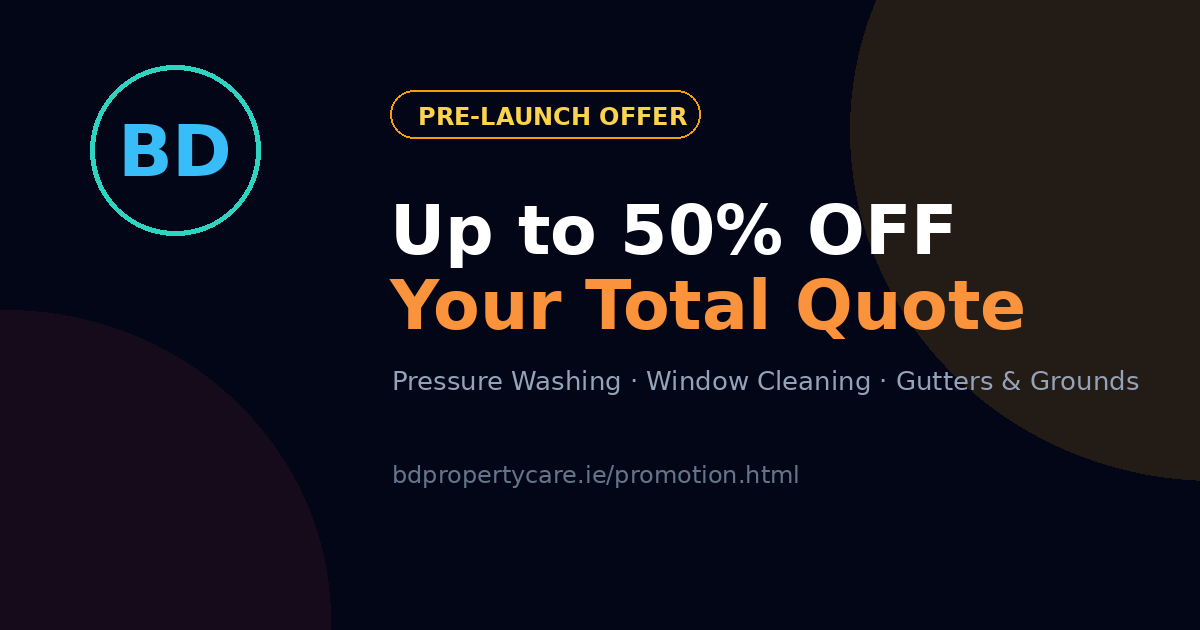
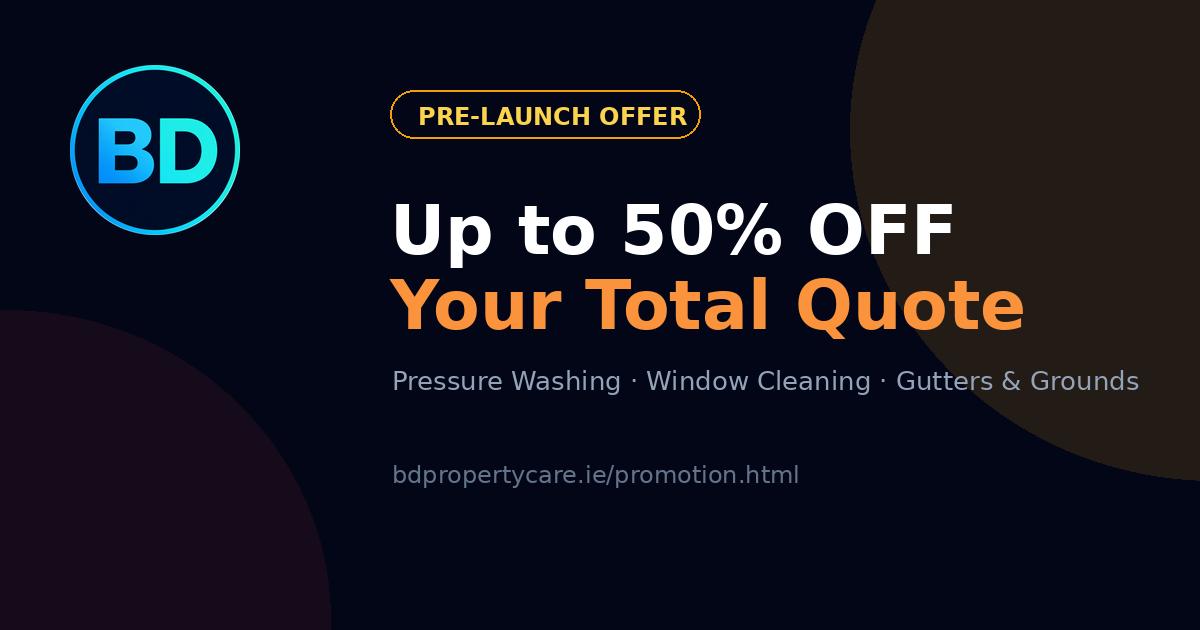
Add files via upload

Changed region(s): [[0.0308, 0.0905, 0.2158, 0.3921]]

diff --git a/book.html b/book.html
@@ -37,9 +37,7 @@
     <nav class="bg-slate-950/90 backdrop-blur-xl sticky top-0 z-40 border-b border-slate-800/80">
         <div class="max-w-5xl mx-auto px-6 flex justify-between items-center h-20">
             <a href="index.html" class="flex items-center gap-3">
-                <div class="w-11 h-11 rounded-full border-2 border-teal-400 flex items-center justify-center bg-slate-900/50">
-                    <span class="bg-gradient-to-r from-sky-400 to-teal-400 bg-clip-text text-transparent font-black text-lg">BD</span>
-                </div>
+                <img src="bd-logo.png" alt="BD Premium Property Care logo" class="w-11 h-11 rounded-full" width="44" height="44">
                 <div class="h-6 w-[1px] bg-slate-800"></div>
                 <span class="text-[11px] tracking-widest text-slate-400 font-black uppercase">Premium Property Care</span>
             </a>

diff --git a/grounds-repairs.html b/grounds-repairs.html
@@ -78,9 +78,7 @@
     <nav class="bg-slate-950/90 backdrop-blur-xl sticky top-0 z-40 border-b border-slate-800/80">
         <div class="max-w-5xl mx-auto px-6 flex justify-between items-center h-20">
             <a href="index.html" class="flex items-center gap-3">
-                <div class="w-11 h-11 rounded-full border-2 border-teal-400 flex items-center justify-center bg-slate-900/50">
-                    <span class="bg-gradient-to-r from-sky-400 to-teal-400 bg-clip-text text-transparent font-black text-lg">BD</span>
-                </div>
+                <img src="bd-logo.png" alt="BD Premium Property Care logo" class="w-11 h-11 rounded-full" width="44" height="44">
                 <div class="h-6 w-[1px] bg-slate-800"></div>
                 <span class="text-[11px] tracking-widest text-slate-400 font-black uppercase">Premium Property Care</span>
             </a>

diff --git a/promotion.html b/promotion.html
@@ -41,9 +41,7 @@
     <nav class="bg-slate-950/90 backdrop-blur-xl sticky top-0 z-40 border-b border-slate-800/80">
         <div class="max-w-6xl mx-auto px-6 flex justify-between items-center h-20">
             <a href="index.html" class="flex items-center gap-3">
-                <div class="w-11 h-11 rounded-full border-2 border-teal-400 flex items-center justify-center bg-slate-900/50">
-                    <span class="bg-gradient-to-r from-sky-400 to-teal-400 bg-clip-text text-transparent font-black text-lg">BD</span>
-                </div>
+                <img src="bd-logo.png" alt="BD Premium Property Care logo" class="w-11 h-11 rounded-full" width="44" height="44">
                 <div class="h-6 w-[1px] bg-slate-800"></div>
                 <span class="text-[11px] tracking-widest text-slate-400 font-black uppercase">Premium Property Care</span>
             </a>

diff --git a/referral.html b/referral.html
@@ -49,9 +49,7 @@
     <nav class="bg-slate-950/90 backdrop-blur-xl sticky top-0 z-40 border-b border-slate-800/80">
         <div class="max-w-5xl mx-auto px-6 flex justify-between items-center h-20">
             <a href="index.html" class="flex items-center gap-3">
-                <div class="w-11 h-11 rounded-full border-2 border-teal-400 flex items-center justify-center bg-slate-900/50">
-                    <span class="bg-gradient-to-r from-sky-400 to-teal-400 bg-clip-text text-transparent font-black text-lg">BD</span>
-                </div>
+                <img src="bd-logo.png" alt="BD Premium Property Care logo" class="w-11 h-11 rounded-full" width="44" height="44">
                 <div class="h-6 w-[1px] bg-slate-800"></div>
                 <span class="text-[11px] tracking-widest text-slate-400 font-black uppercase">Premium Property Care</span>
             </a>

diff --git a/washing-gutters.html b/washing-gutters.html
@@ -78,9 +78,7 @@
     <nav class="bg-slate-950/90 backdrop-blur-xl sticky top-0 z-40 border-b border-slate-800/80">
         <div class="max-w-5xl mx-auto px-6 flex justify-between items-center h-20">
             <a href="index.html" class="flex items-center gap-3">
-                <div class="w-11 h-11 rounded-full border-2 border-teal-400 flex items-center justify-center bg-slate-900/50">
-                    <span class="bg-gradient-to-r from-sky-400 to-teal-400 bg-clip-text text-transparent font-black text-lg">BD</span>
-                </div>
+                <img src="bd-logo.png" alt="BD Premium Property Care logo" class="w-11 h-11 rounded-full" width="44" height="44">
                 <div class="h-6 w-[1px] bg-slate-800"></div>
                 <span class="text-[11px] tracking-widest text-slate-400 font-black uppercase">Premium Property Care</span>
             </a>

diff --git a/windows.html b/windows.html
@@ -78,9 +78,7 @@
     <nav class="bg-slate-950/90 backdrop-blur-xl sticky top-0 z-40 border-b border-slate-800/80">
         <div class="max-w-5xl mx-auto px-6 flex justify-between items-center h-20">
             <a href="index.html" class="flex items-center gap-3">
-                <div class="w-11 h-11 rounded-full border-2 border-teal-400 flex items-center justify-center bg-slate-900/50">
-                    <span class="bg-gradient-to-r from-sky-400 to-teal-400 bg-clip-text text-transparent font-black text-lg">BD</span>
-                </div>
+                <img src="bd-logo.png" alt="BD Premium Property Care logo" class="w-11 h-11 rounded-full" width="44" height="44">
                 <div class="h-6 w-[1px] bg-slate-800"></div>
                 <span class="text-[11px] tracking-widest text-slate-400 font-black uppercase">Premium Property Care</span>
             </a>

diff --git a/index.html b/index.html
@@ -133,9 +133,7 @@
             <div class="flex justify-between h-20">
                 <div class="flex items-center">
                     <a href="index.html" class="flex items-center gap-3">
-                        <div class="w-11 h-11 rounded-full border-2 border-teal-400 flex items-center justify-center bg-slate-900/50">
-                            <span class="bg-gradient-to-r from-sky-400 to-teal-400 bg-clip-text text-transparent font-black text-lg">BD</span>
-                        </div>
+                        <img src="bd-logo.png" alt="BD Premium Property Care logo" class="w-11 h-11 rounded-full" width="44" height="44">
                         <div class="h-6 w-[1px] bg-slate-800"></div>
                         <span class="text-[11px] tracking-widest text-slate-400 font-black uppercase">Premium Property Care</span>
                     </a>
